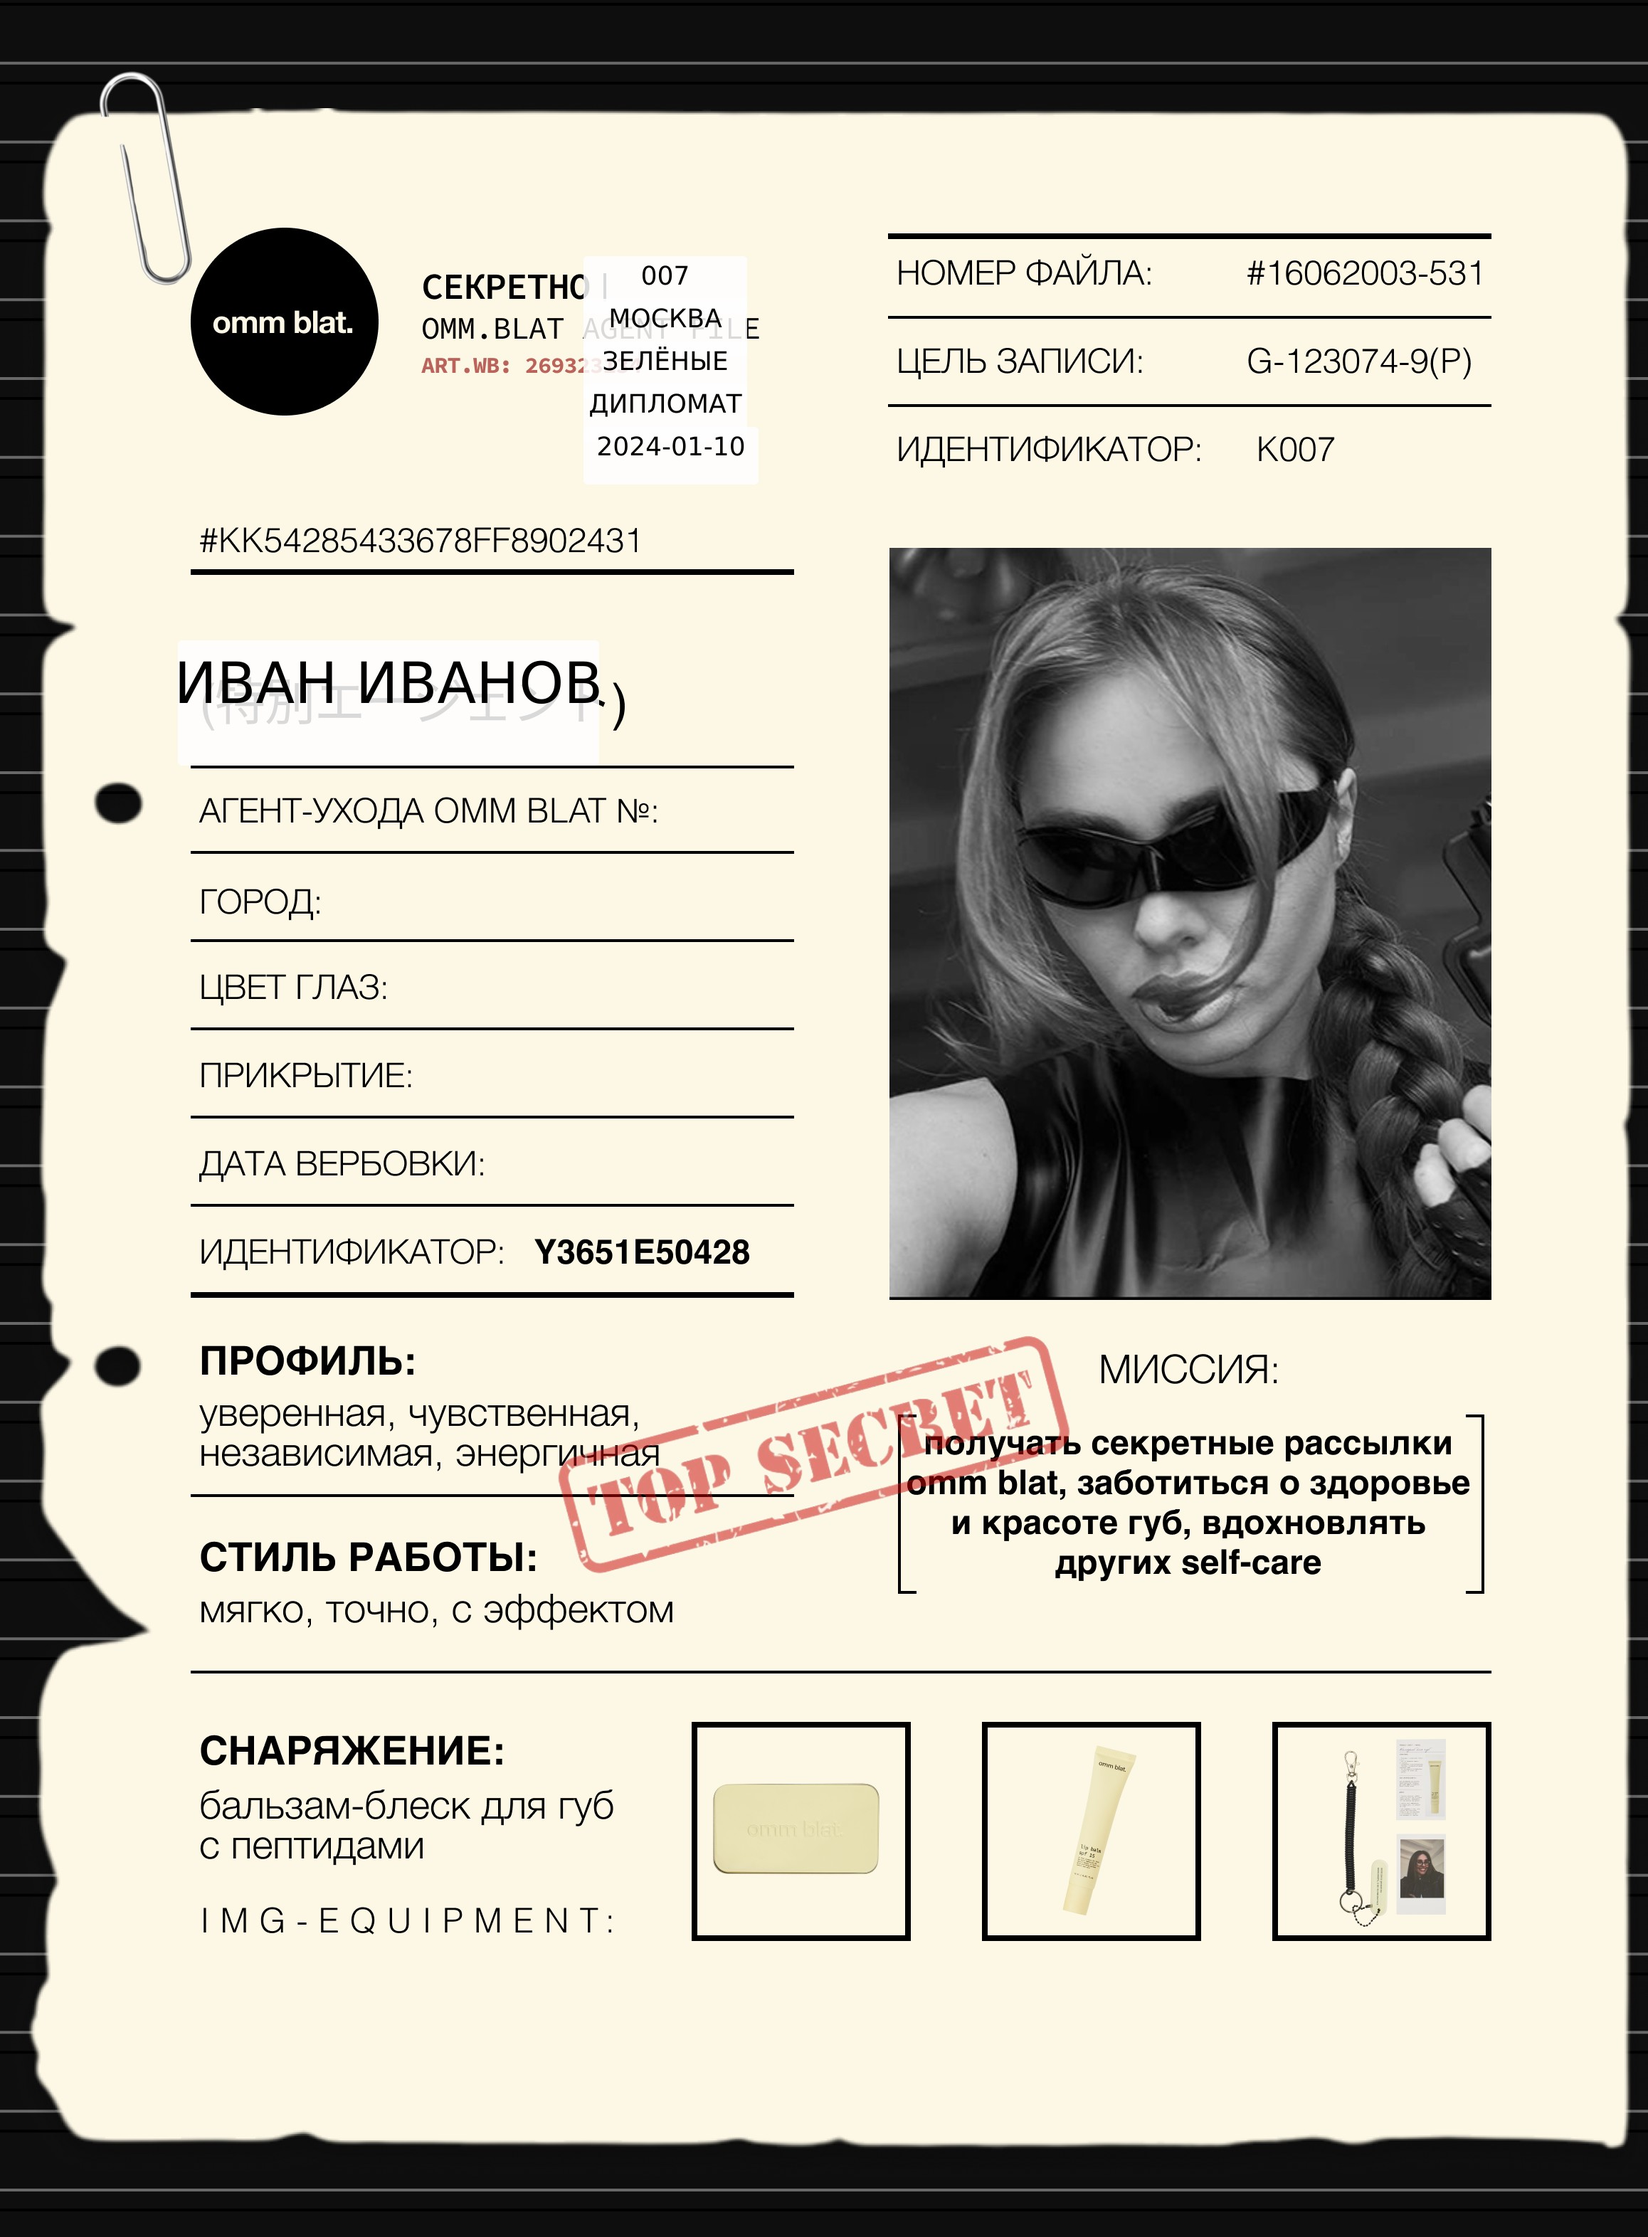
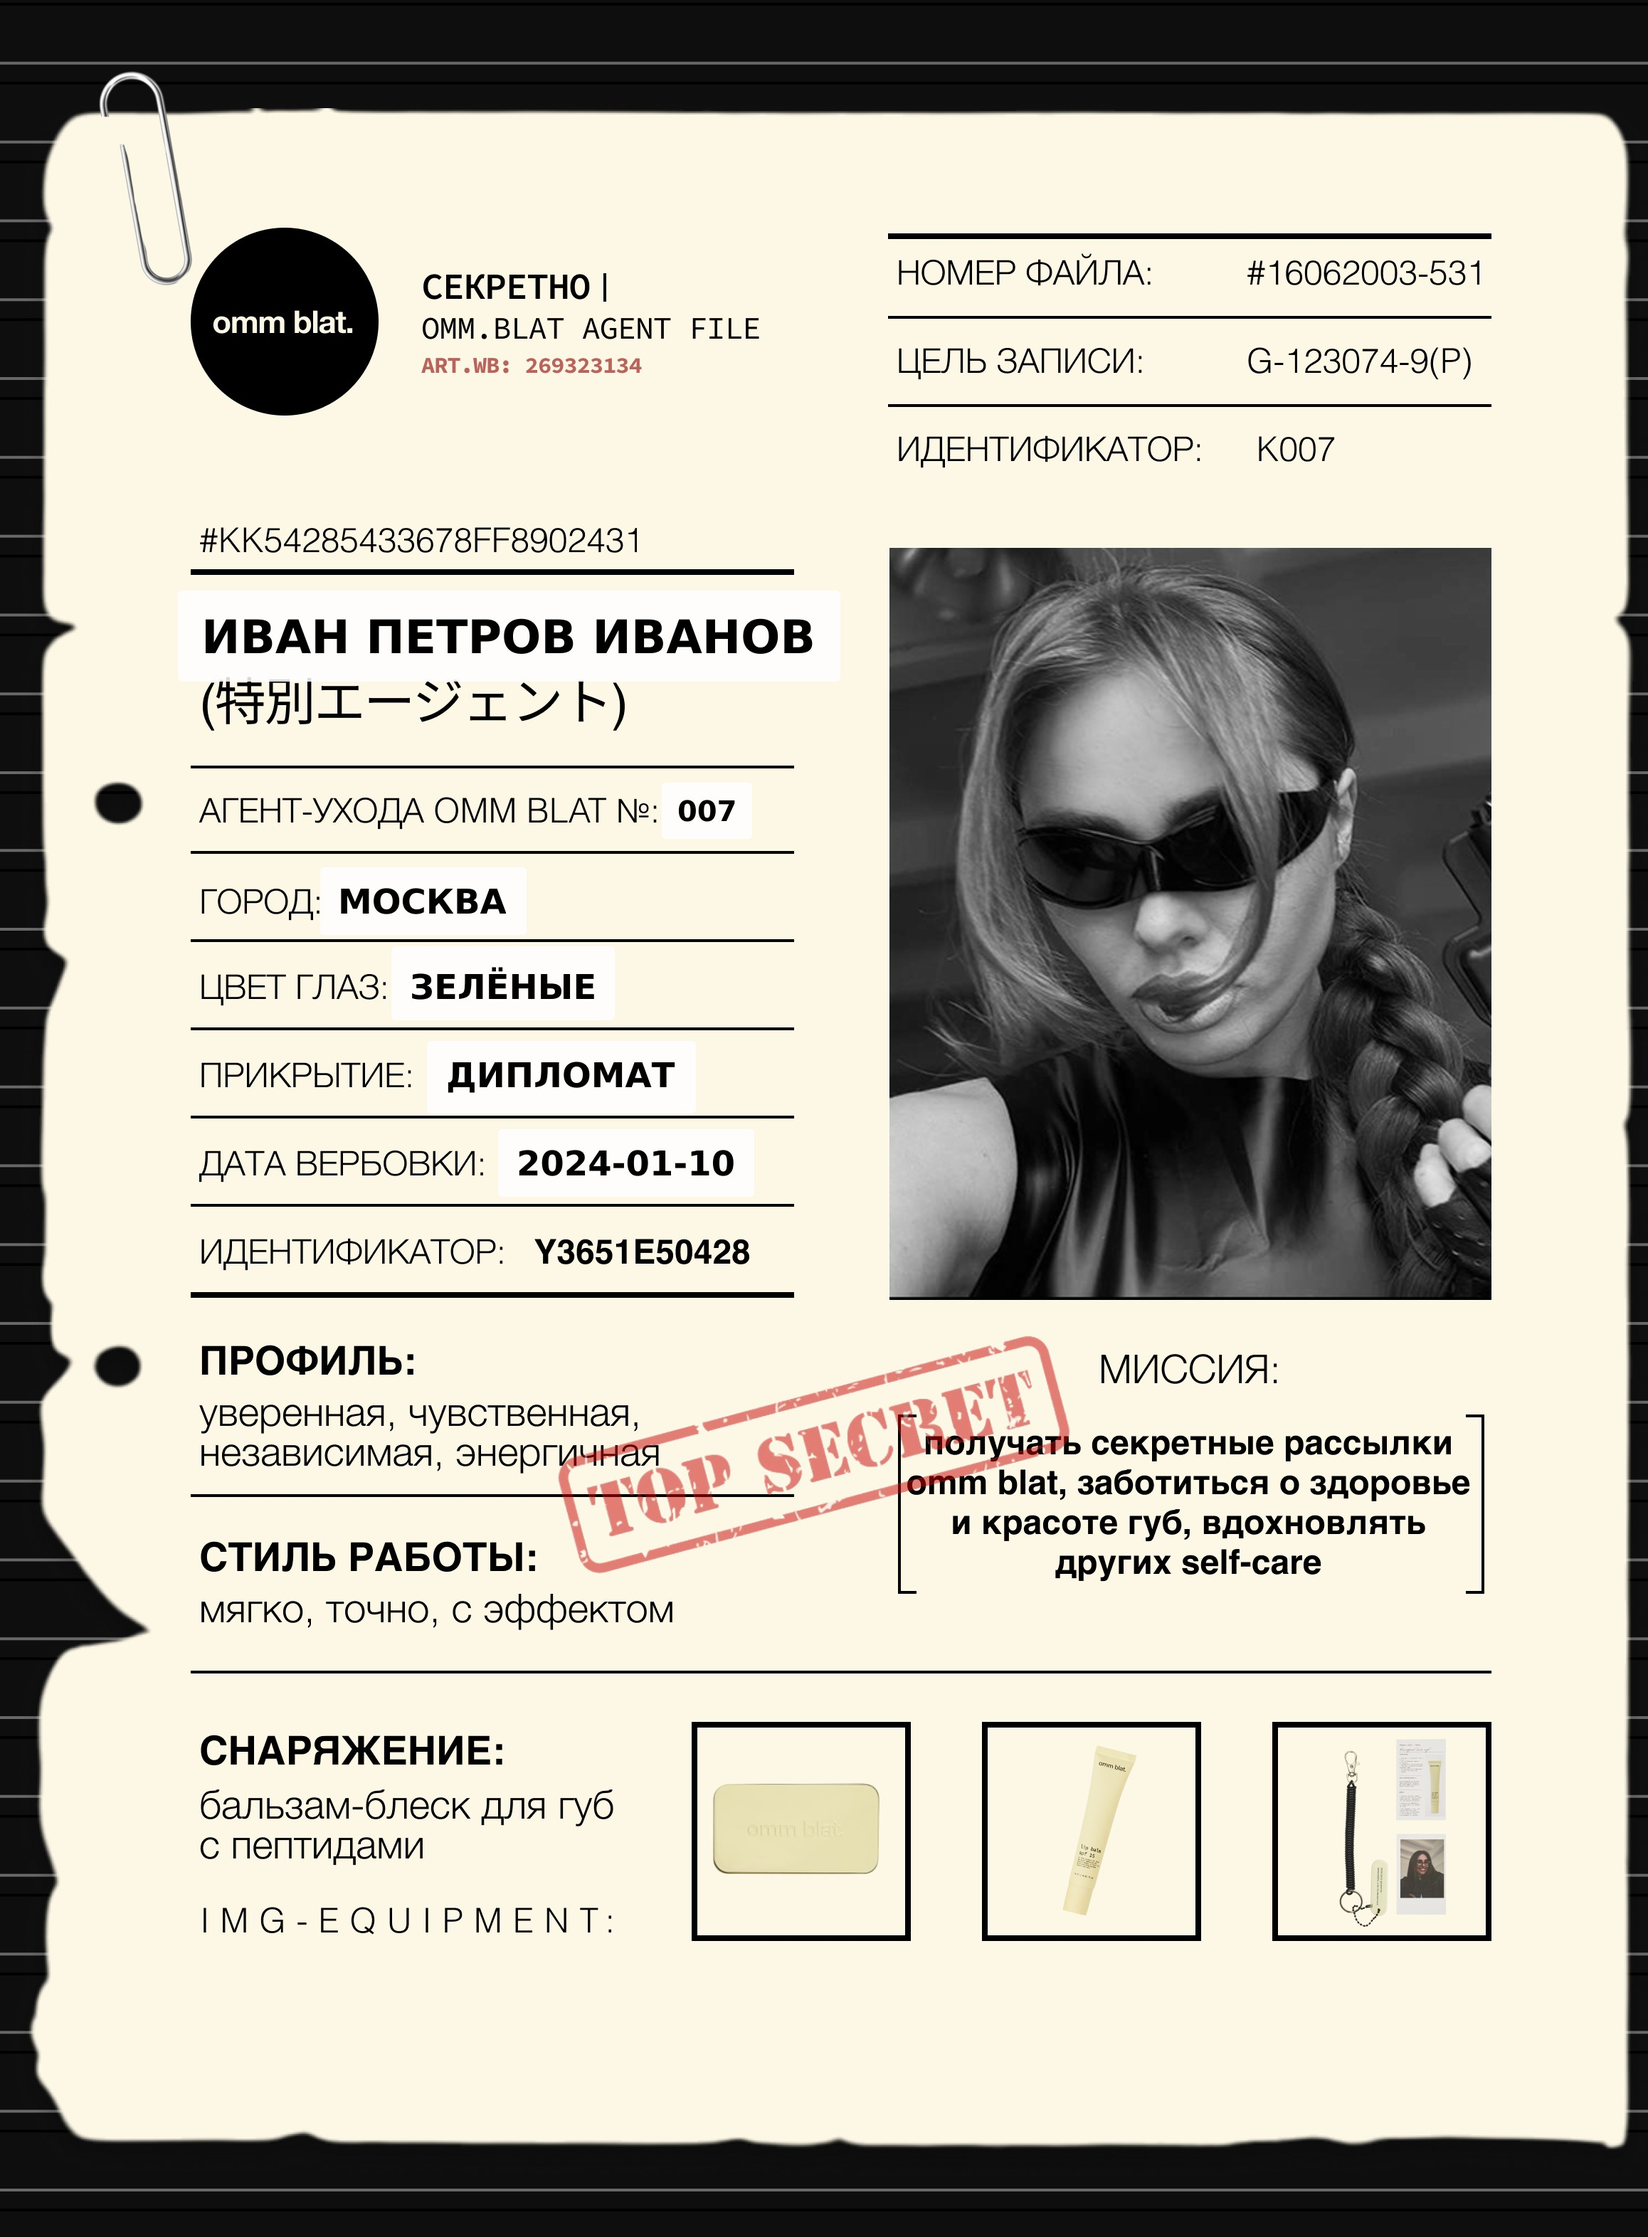
Text positioned

diff --git a/src/server.js b/src/server.js
@@ -28,12 +28,12 @@ const LAYOUT = {
   canvasHeight: 1800,
   photoBox: { x: 1250, y: 770, width: 846, height: 1057 }, // 4:5 aspect
   text: {
-    name: { x: 250, y: 900, fontSize: 80 },
-    agentNumber: { x: 820, y: 360, fontSize: 36 },
-    city: { x: 820, y: 420, fontSize: 36 },
-    eyeColor: { x: 820, y: 480, fontSize: 36 },
-    cover: { x: 820, y: 540, fontSize: 36 },
-    recruitmentDate: { x: 820, y: 600, fontSize: 36 }
+    name: { x: 250, y: 830, fontSize: 65 },
+    agentNumber: { x: 930, y: 1100, fontSize: 40 },
+    city: { x: 450, y: 1219, fontSize: 48 },
+    eyeColor: { x: 550, y: 1330, fontSize: 48 },
+    cover: { x: 600, y: 1463, fontSize: 48 },
+    recruitmentDate: { x: 700, y: 1587, fontSize: 48 }
   }
 };
 
@@ -66,24 +66,27 @@ function toUppercaseLocale(value) {
 }
 
 /**
- * Create an SVG buffer with single-line text.
+ * Render text to raster buffer with transparent background and trim to content bounds.
  */
-function createTextSVG(text, options) {
-  const { fontSize, width, height, fill = TEXT_COLOR, fontFamily = FONT_FAMILY, padding = Math.ceil(fontSize * 1.4), backgroundColor = TEXT_BG_COLOR, backgroundOpacity = TEXT_BG_OPACITY } = options;
+async function renderTextBitmap(text, options) {
+  const { fontSize, fill = TEXT_COLOR, fontFamily = FONT_FAMILY } = options;
   const safeText = (text || '').replace(/&/g, '&amp;').replace(/</g, '&lt;').replace(/>/g, '&gt;');
-  const cx = Math.floor(width / 2);
-  const cy = Math.floor(height / 2);
+  const width = 4096; // large canvas to avoid clipping; will be trimmed
+  const height = Math.max(64, Math.ceil(fontSize * 2));
+  const y = Math.ceil(height * 0.5); // mid baseline to keep ascenders/descenders before trim
   const svg = `<?xml version="1.0" encoding="UTF-8"?>
 <svg xmlns="http://www.w3.org/2000/svg" width="${width}" height="${height}">
-  <defs>
-    <style>
-      text { font-family: ${fontFamily}; font-size: ${fontSize}px; fill: ${fill}; text-anchor: middle; dominant-baseline: middle; alignment-baseline: middle; }
-    </style>
-  </defs>
-  <rect x="0" y="0" width="${width}" height="${height}" fill="${backgroundColor}" fill-opacity="${backgroundOpacity}" rx="6" ry="6"/>
-  <text x="${cx}" y="${cy}">${safeText}</text>
+  <style>
+    text { font-family: ${fontFamily}; font-size: ${fontSize}px; font-weight: 700; fill: ${fill}; dominant-baseline: middle; alignment-baseline: middle; }
+  </style>
+  <text x="0" y="${y}">${safeText}</text>
 </svg>`;
-  return Buffer.from(svg);
+  const svgBuffer = Buffer.from(svg);
+  const { data, info } = await sharp(svgBuffer)
+    .png()
+    .trim() // trim transparent
+    .toBuffer({ resolveWithObject: true });
+  return { image: data, width: info.width, height: info.height };
 }
 
 /**
@@ -101,7 +104,7 @@ async function processPhotoToBox(inputBuffer, targetWidth, targetHeight) {
 /**
  * Compose final image:
  *  - place cropped photo into template at photoBox
- *  - overlay texts in uppercase at configured coordinates
+ *  - overlay texts in uppercase at configured coordinates, with auto-sized background panels
  */
 async function composeImage(photoBuffer, fields) {
   ensureTemplateExists();
@@ -111,29 +114,35 @@ async function composeImage(photoBuffer, fields) {
 
   const processedPhoto = await processPhotoToBox(photoBuffer, photoBox.width, photoBox.height);
 
-  // Prepare text overlays as small SVGs positioned with left/top
+  // Prepare text overlays positioned with left/top
   const overlays = [];
 
-  function addTextOverlay(key, value) {
+  async function addTextOverlay(key, value) {
     const cfg = text[key];
     if (!cfg) return;
     const content = toUppercaseLocale(value);
-    // Compact box with padding and background; width heuristic: ~0.6em per character
-    const padding = Math.ceil(cfg.fontSize * 0.4);
-    const textBoxWidth = Math.max(200, Math.ceil(content.length * (cfg.fontSize * 0.6)));
-    const textBoxHeight = Math.ceil(cfg.fontSize * 1.4);
-    const svgWidth = textBoxWidth + padding * 2;
-    const svgHeight = textBoxHeight + padding * 2;
-    const svg = createTextSVG(content, { width: svgWidth, height: svgHeight, fontSize: cfg.fontSize, padding });
-    overlays.push({ input: svg, left: cfg.x, top: cfg.y });
+    if (!content) return;
+    const padding = Math.ceil(cfg.fontSize * 0.6);
+    const rendered = await renderTextBitmap(content, { fontSize: cfg.fontSize });
+    const panelW = rendered.width + padding * 2;
+    const panelH = rendered.height + padding * 2;
+    // Background rectangle as SVG
+    const panelSvg = `<?xml version="1.0" encoding="UTF-8"?>
+<svg xmlns="http://www.w3.org/2000/svg" width="${panelW}" height="${panelH}">
+  <rect x="0" y="0" width="${panelW}" height="${panelH}" fill="${TEXT_BG_COLOR}" fill-opacity="${TEXT_BG_OPACITY}" rx="6" ry="6"/>
+</svg>`;
+    overlays.push({ input: Buffer.from(panelSvg), left: cfg.x, top: cfg.y });
+    const textLeft = cfg.x + Math.floor((panelW - rendered.width) / 2);
+    const textTop = cfg.y + Math.floor((panelH - rendered.height) / 2);
+    overlays.push({ input: rendered.image, left: textLeft, top: textTop });
   }
 
-  addTextOverlay('name', fields.name);
-  addTextOverlay('agentNumber', fields.agentNumber);
-  addTextOverlay('city', fields.city);
-  addTextOverlay('eyeColor', fields.eyeColor);
-  addTextOverlay('cover', fields.cover);
-  addTextOverlay('recruitmentDate', fields.recruitmentDate);
+  await addTextOverlay('name', fields.name);
+  await addTextOverlay('agentNumber', fields.agentNumber);
+  await addTextOverlay('city', fields.city);
+  await addTextOverlay('eyeColor', fields.eyeColor);
+  await addTextOverlay('cover', fields.cover);
+  await addTextOverlay('recruitmentDate', fields.recruitmentDate);
 
   const result = await template
     .composite([
